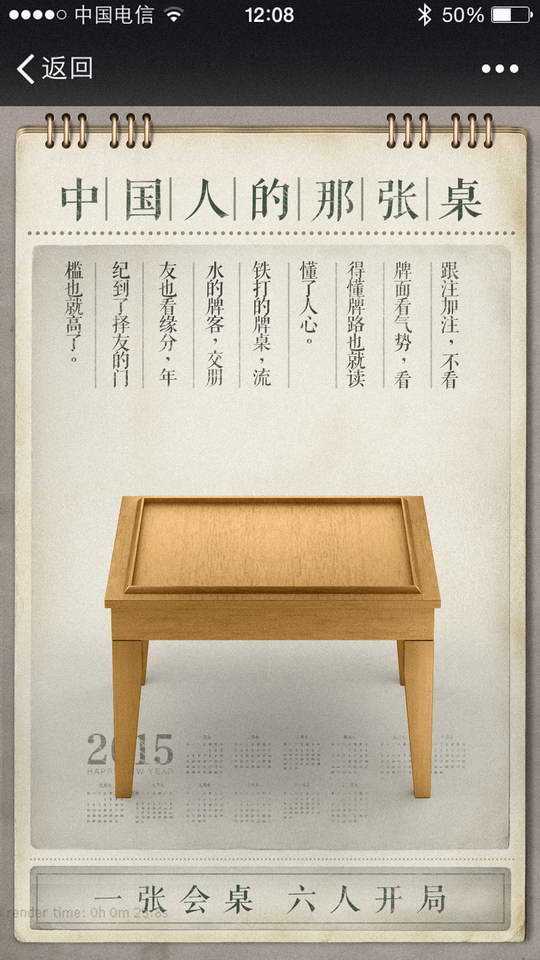
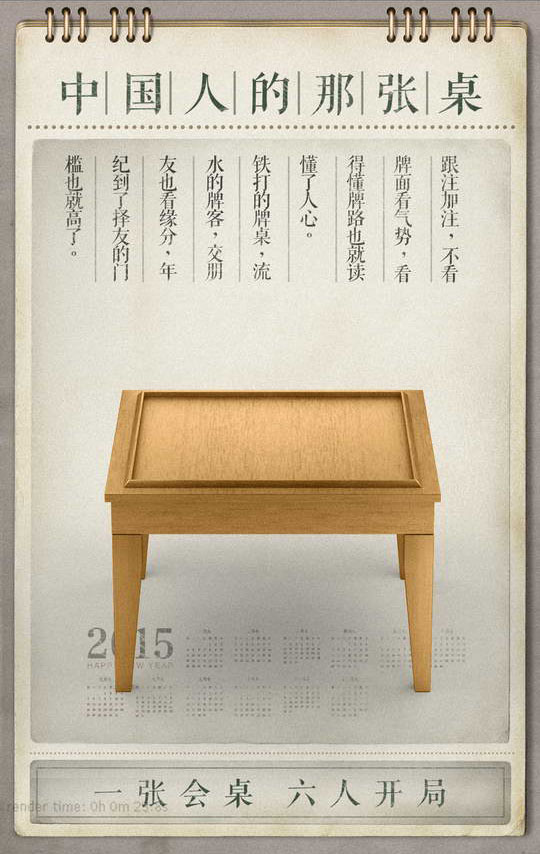
Remove weixin header statue bar.

diff --git a/assets/scripts/main.js b/assets/scripts/main.js
@@ -224,7 +224,7 @@ var app = {
             var img = that.sprites[frameIndex];
 
             if (img) {
-                ctx.drawImage(img, 0, that.paper.canvas.height*0.248, that.paper.canvas.width, that.paper.canvas.height*0.642);
+                ctx.drawImage(img, 0, that.paper.canvas.height*0.156, that.paper.canvas.width, that.paper.canvas.height*0.721);
             }
         }
     },

diff --git a/dist/assets/scripts/main.js b/dist/assets/scripts/main.js
@@ -224,7 +224,7 @@ var app = {
             var img = that.sprites[frameIndex];
 
             if (img) {
-                ctx.drawImage(img, 0, that.paper.canvas.height*0.248, that.paper.canvas.width, that.paper.canvas.height*0.642);
+                ctx.drawImage(img, 0, that.paper.canvas.height*0.156, that.paper.canvas.width, that.paper.canvas.height*0.721);
             }
         }
     },
